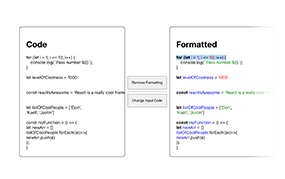
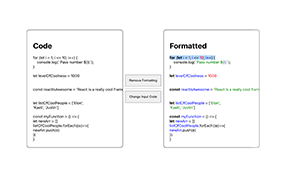
restyled button window, updated bio component

Changed region(s): [[0.0561, 0.1397, 0.9263, 0.8939]]

diff --git a/src/Components/Projects.tsx b/src/Components/Projects.tsx
@@ -25,7 +25,7 @@ function Projects() {
       <div className="projects__contain">
         <PortfolioItem
           title="Syntax Highlighter"
-          body="ES6 Syntax highlighter app implemented in React and Typescript"
+          body="ES6 Syntax highlighter app rendered in React and implemented in Typescript."
           codeUrl="https://github.com/justinWaves/es6-code-formatter"
           linkUrl="https://github.com/justinWaves/es6-code-formatter"
           imageSrc={es6}
@@ -47,7 +47,7 @@ function Projects() {
         />
         <PortfolioItem
           title="MetaWaves Chat"
-          body="Realtime Web3.0 Chat dApp that uses Metamask Wallet for user Auth, powered by a Moralis Backend"
+          body="Realtime Web3.0 Chat dApp that uses Metamask Wallet for user Auth, powered by a Moralis Backend."
           codeUrl="https://github.com/justinWaves/metaverse-challenge"
           linkUrl="https://metaverse-challenge-alpha-eight.vercel.app/"
           imageSrc={metaWaves}
@@ -63,7 +63,7 @@ function Projects() {
         />
         <PortfolioItem
           title="LinkedIn Clone"
-          body="React app that uses Redux to manage user state, and a Firebase backend for the database and email/password authentication. Icons by Material UI. Desktop only as of now"
+          body="React app that uses Redux to manage user state, and a Firebase backend for the database and email/password authentication. Icons by Material UI. Desktop only."
           codeUrl=" "
           linkUrl="https://linkedin-clone-6520a.firebaseapp.com/"
           imageSrc={linkedinClone}
@@ -71,7 +71,7 @@ function Projects() {
         />
         <PortfolioItem
           title="Tic React Toe"
-          body="Create-React-App that uses Reacts useState hook to manage the players state. I  installed Sass so I could use an animated gradient for the winner text. "
+          body="Create-React-App that uses Reacts useState hook to manage the players state. I used Sass so I could use an animated gradient for the winner text. "
           codeUrl="https://github.com/justinWaves/tic-react-toe"
           linkUrl="https://justinwaves.github.io/tic-react-toe/"
           imageSrc={ticTactToe}
@@ -87,7 +87,7 @@ function Projects() {
         />
         <PortfolioItem
           title="JW Portfolio 2018"
-          body="My First Portfolio site, you may see some similarities to this one. It slow, clunky but it works. I used CSS to size and animate differnet PNG of gears as a background. The site is fully responsive."
+          body="My First Portfolio site, you may see some similarities to this one. It slow, clunky but it works. I used CSS to size and animate different PNG of gears as a background. The site is fully responsive."
           codeUrl="https://github.com/justinWaves/JW-Portfolio"
           linkUrl="https://justinwaves.github.io/JW-Portfolio/"
           imageSrc={jwPort2018}

diff --git a/src/Components/Bio.tsx b/src/Components/Bio.tsx
@@ -50,7 +50,7 @@ function Bio() {
             Outside Lands 2019. I taught myself web development fundamentals in
             2013 and launched my own web design firm 5 years later focused on
             local small businesses, coding all sites from scratch. Though my
-            talent is best suited for front-end work, I have built several full
+            talent is best suited for front end work, I have built several full
             stack web apps some of which can be found below. Learning new tech
             and expanding my toolbox is a true passion of mine. Today I enjoy
             using React, Typescript, Next.JS, TailwindCSS, and I am actively

diff --git a/src/Theme.tsx b/src/Theme.tsx
@@ -30,12 +30,7 @@ export const secondaryTextColor: theme.ThemeSet = theme("mode", {
   dark: "#C8FFF4",
 });
 
-// export const buttonBackgroundColor = theme("mode", {
-//   light: "#4400ff",
-//   dark: "#6200EE",
-// });
-
-// export const buttonTextColor = theme("mode", {
-//   light: "#eee",
-//   dark: "#222",
-// });
+export const linkWindowBackgroundColor = theme("mode", {
+  light: "#6200EE95",
+  dark: "#BB86FC95",
+});

diff --git a/src/Components/PortfolioItem.tsx b/src/Components/PortfolioItem.tsx
@@ -10,7 +10,7 @@ import GitHubIcon from "@mui/icons-material/GitHub";
 import useBoop from "../Hooks/use-boop";
 
 const ButtonWindowContainer = styled.div`
-  background-color: ${themeConf.linkColor};
+  background-color: ${themeConf.linkWindowBackgroundColor};
 `;
 
 const PortfolioItemContain = styled(animated.div)`

diff --git a/src/Components/City.css b/src/Components/City.css
@@ -4,9 +4,9 @@
   place-items: center;
   max-width: 100%;
   height: 70vh;
-  border-radius: 50px 50px 0px 0px !important;
+  border-radius: 50px 50px 0px 0px;
   overflow: hidden;
-  box-shadow: 2px 2px 5px #00000050;
+  box-shadow: 3px 3px 10px #00000050;
 }
 
 .city__container > * {

diff --git a/src/Components/Bio.css b/src/Components/Bio.css
@@ -47,10 +47,11 @@
   width: 250px;
   object-fit: contain;
   float: left;
-  border-radius: 100%;
+  border-radius: 3% 100% 100% 3%;
   shape-outside: circle() margin-box;
   margin: 18px;
   z-index: 5;
+  box-shadow: 3px 3px 10px #00000050;
 }
 
 .bio__left > p {
